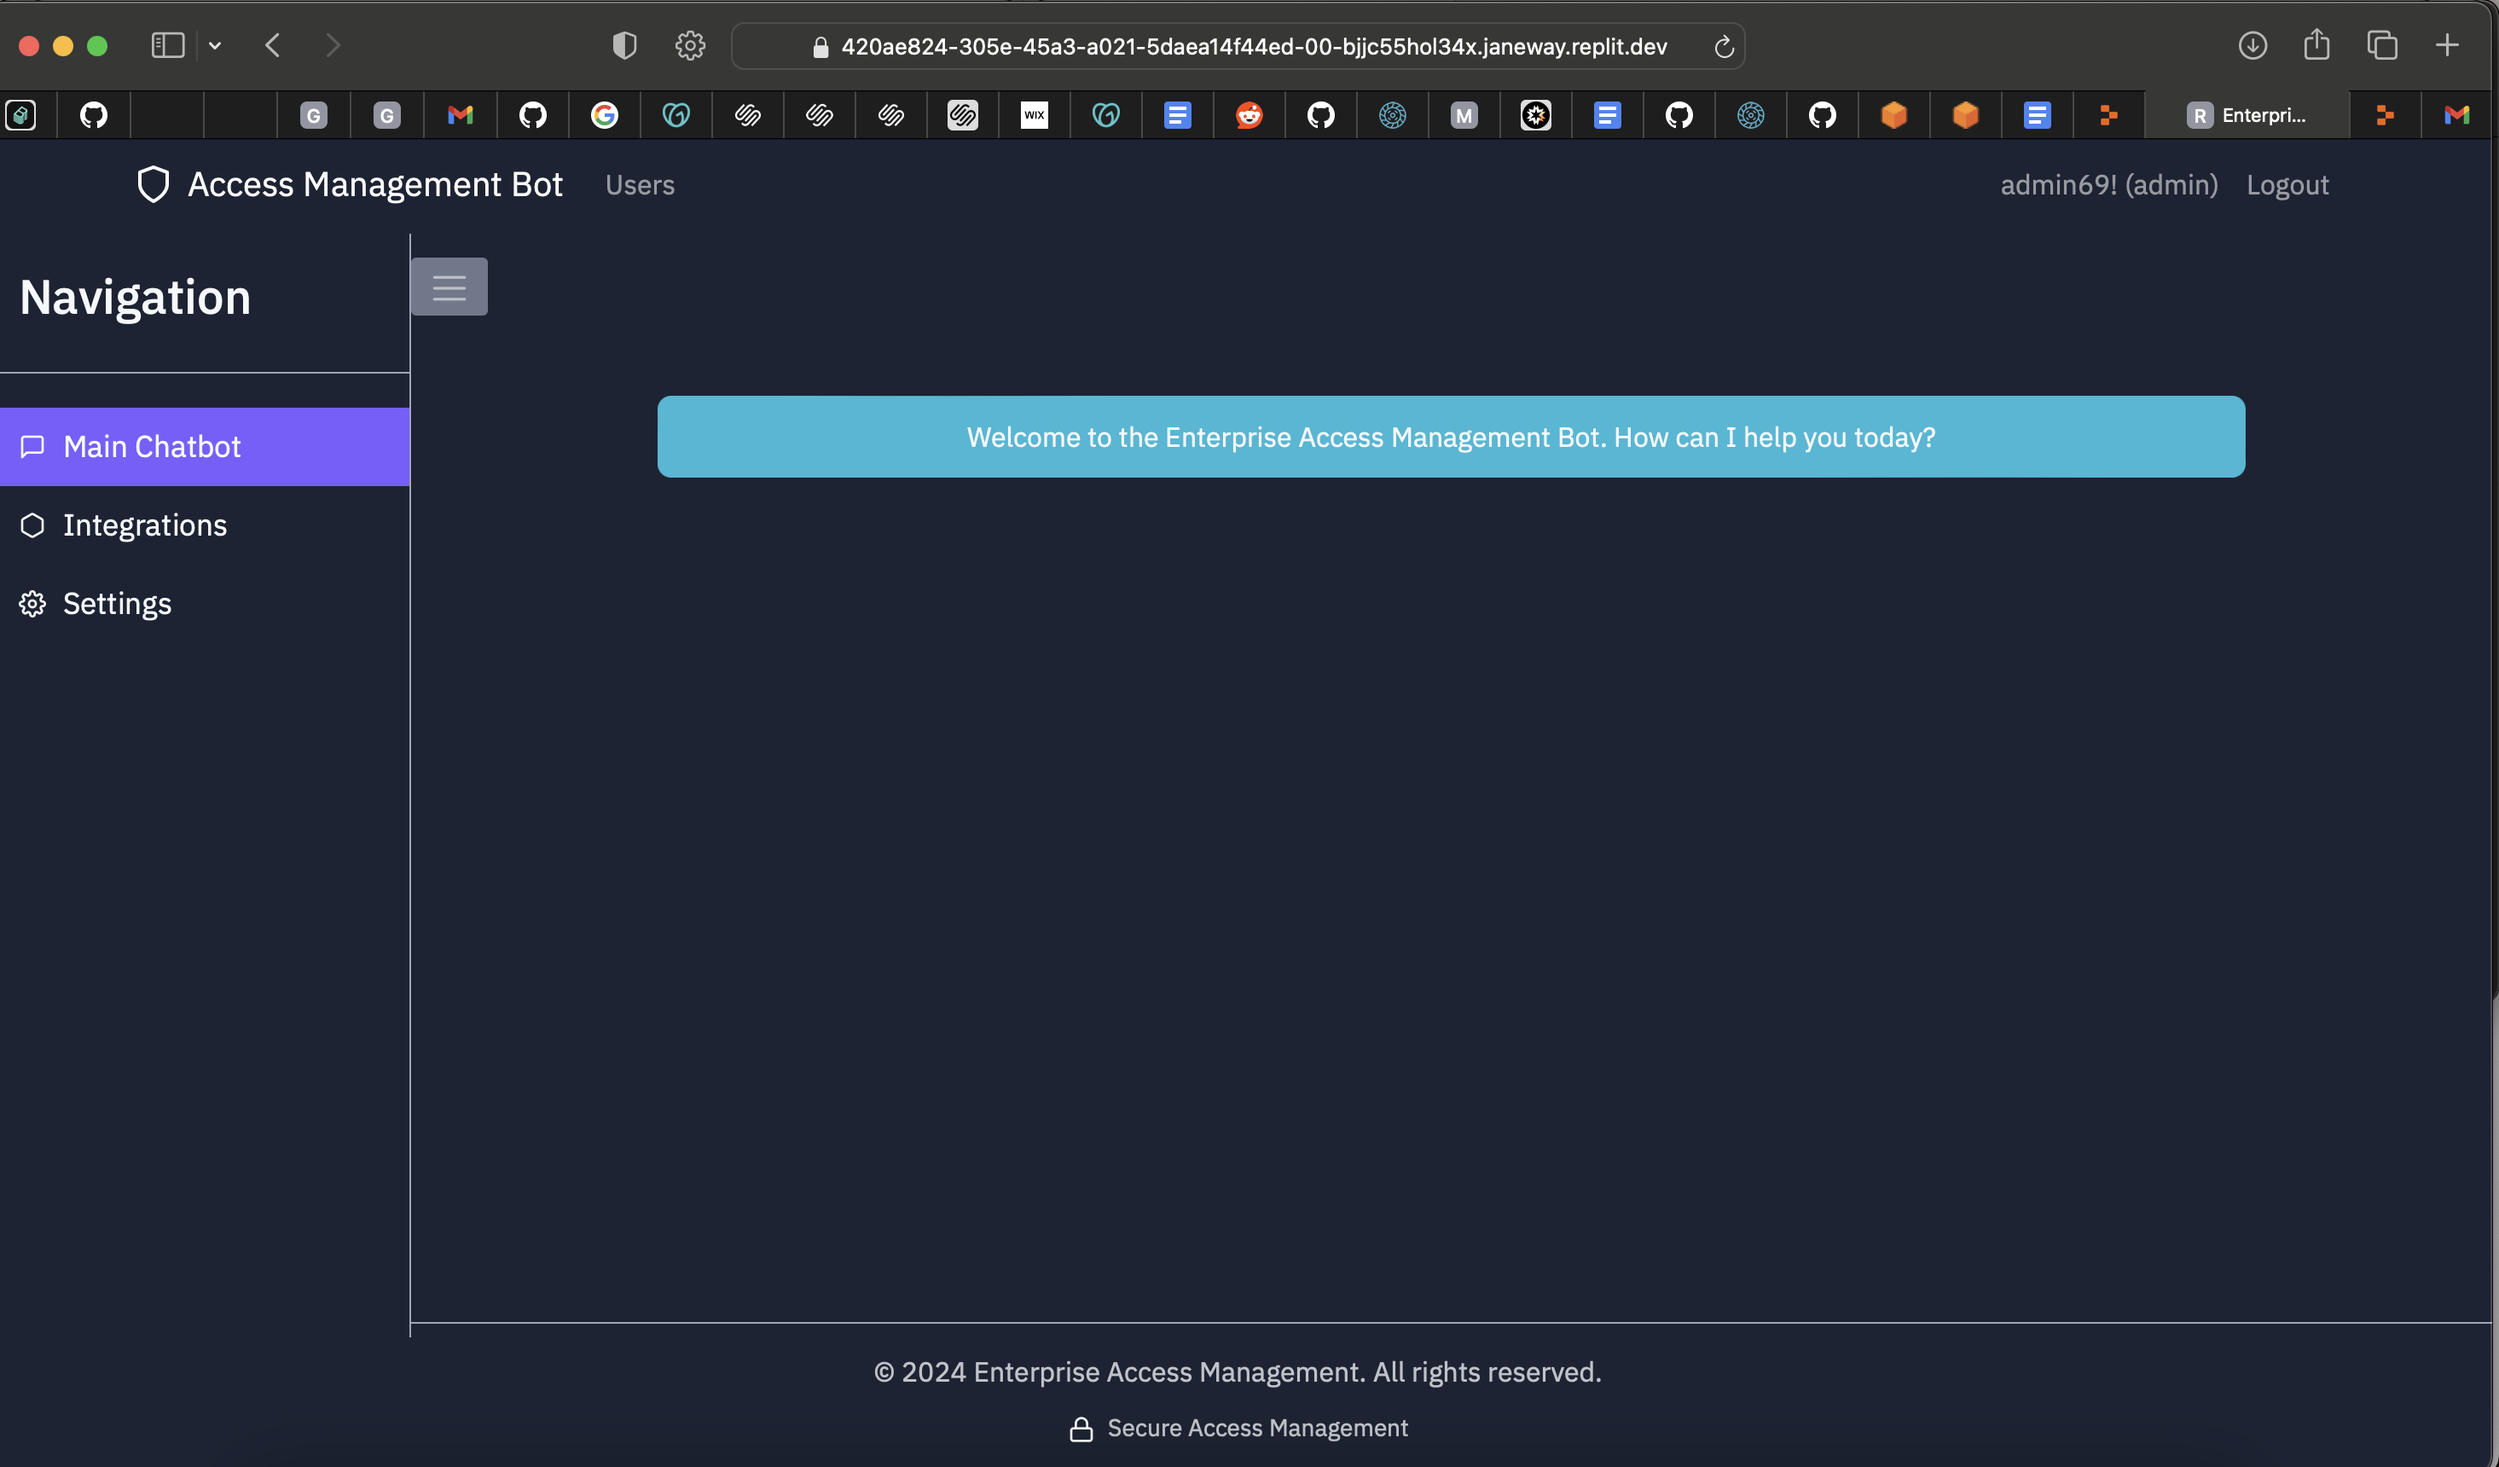
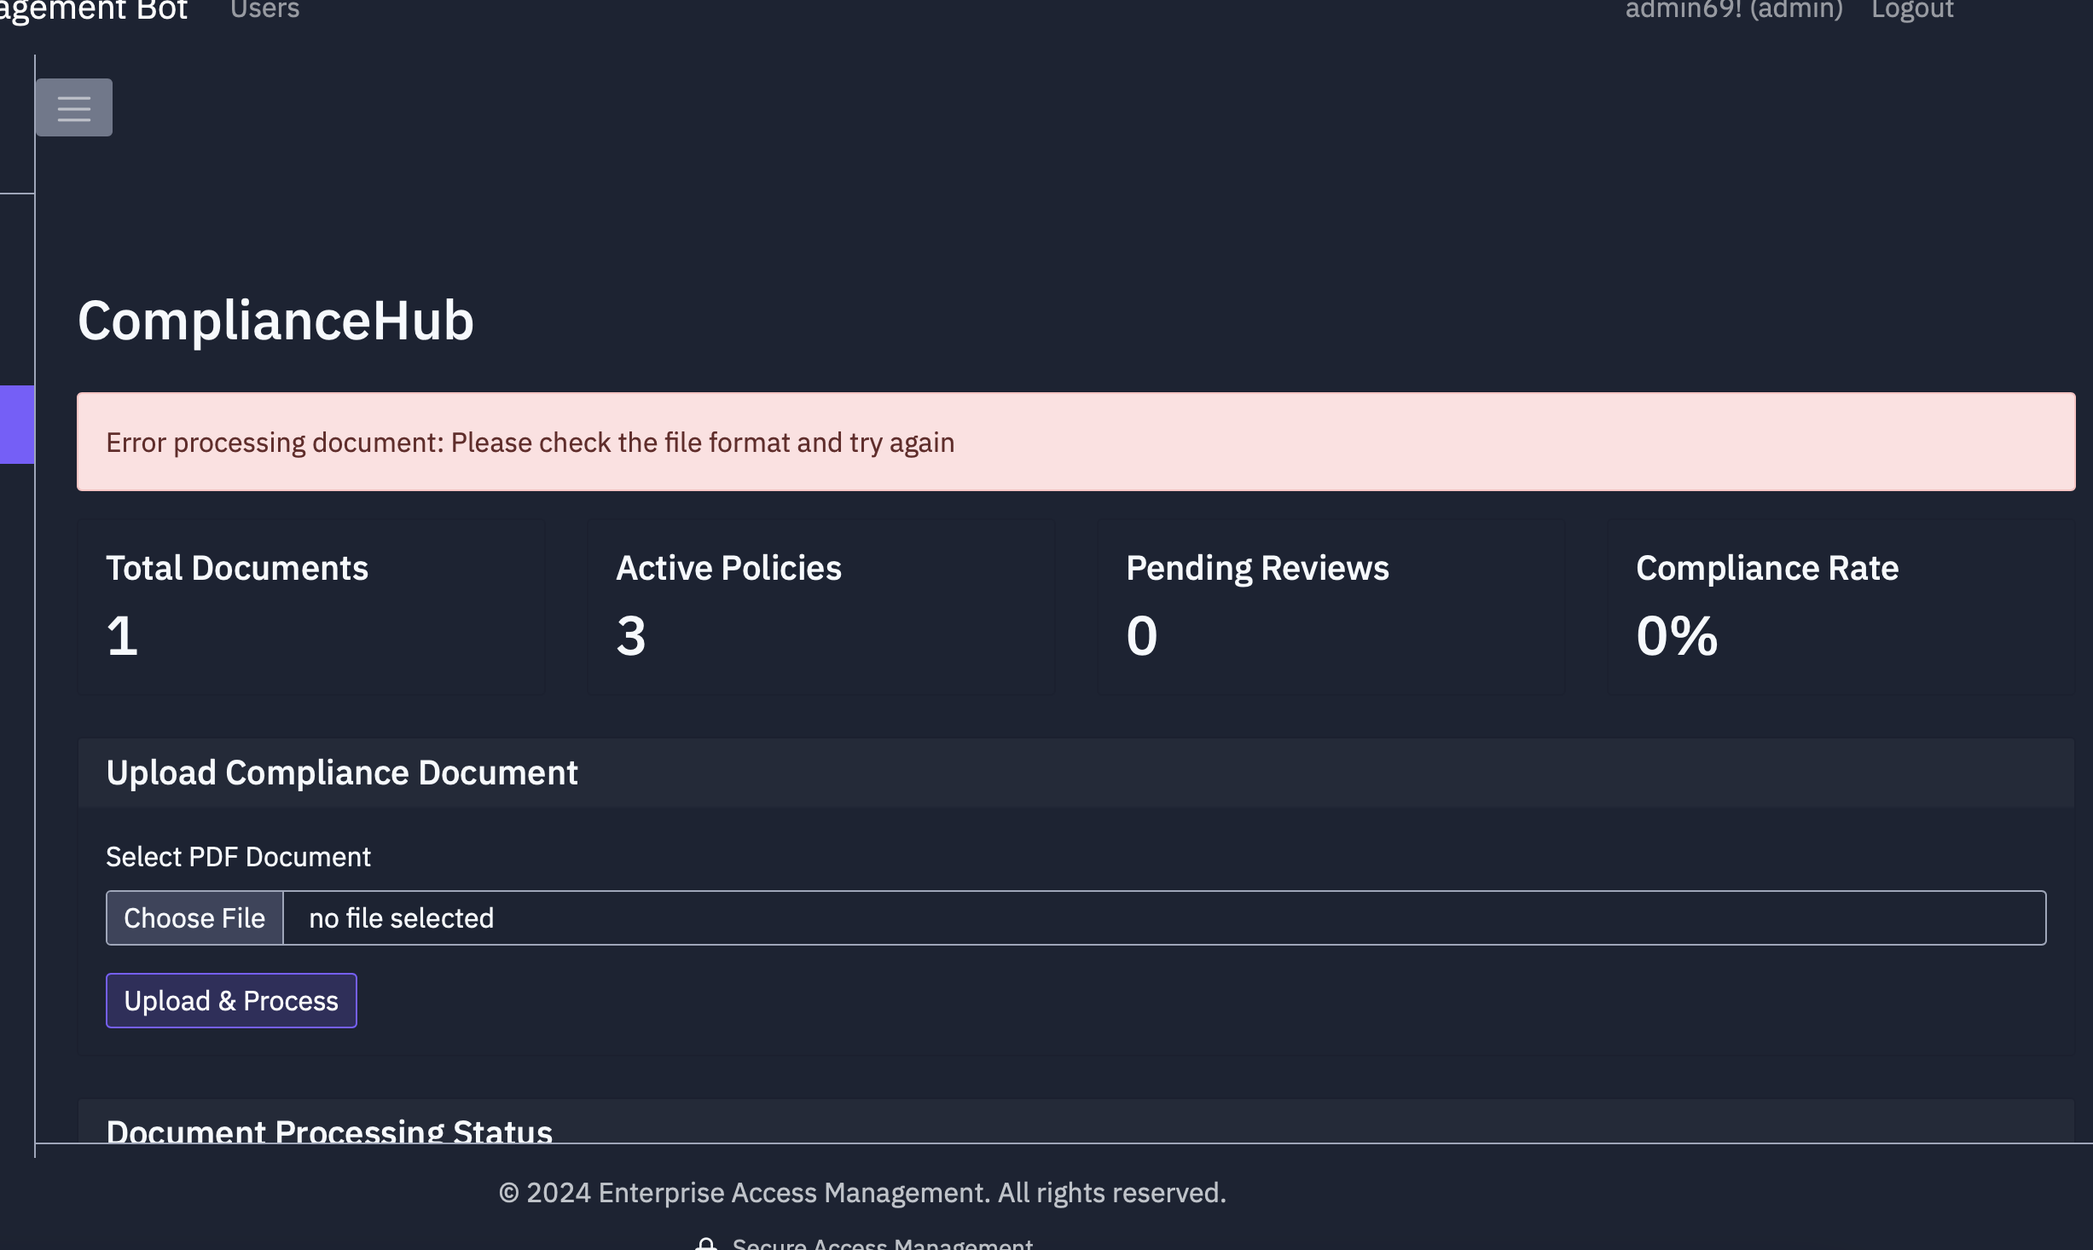
Agent query: Please verify if uploading a PDF document in the ComplianceHub now works correctly without the session error. Try uploading a document and check if it processes successfully.

diff --git a/document_processor.py b/document_processor.py
@@ -242,16 +242,21 @@ def create_policy_from_rules(rules: List[Dict], document_id: int) -> Optional[Di
         logger.error(f"Error creating policy from rules: {str(e)}")
         return None
 
-def process_document(document: ComplianceDocument, file_path: str, max_retries: int = 3) -> None:
+def process_document(document_id: int, file_path: str, max_retries: int = 3) -> None:
     """Process a document and extract compliance rules with enhanced error handling and retries."""
     session = db.session()
     
-    def update_status(new_status: str, commit: bool = True) -> None:
+    def get_document():
+        """Helper function to get document within the current session context."""
+        return session.query(ComplianceDocument).get(document_id)
+    
+    def update_status(document: ComplianceDocument, new_status: str, commit: bool = True) -> None:
         """Helper function to update document status with proper error handling."""
         try:
             document.status = new_status
             if commit:
                 session.commit()
+                session.refresh(document)
             logger.info(f"Document {document.filename} status updated to: {new_status}")
         except Exception as e:
             session.rollback()
@@ -259,34 +264,40 @@ def process_document(document: ComplianceDocument, file_path: str, max_retries: 
             raise
     
     try:
-        update_status('processing')
+        document = get_document()
+        if not document:
+            raise ValueError(f"Document with ID {document_id} not found")
+
+        update_status(document, 'processing')
         logger.info(f"Started processing document: {document.filename}")
         
         # Step 1: Extract text from PDF (25%)
         logger.info("Extracting text from PDF...")
         text = extract_pdf_text(file_path)
         document.content = text
-        update_status('processing_25')
+        update_status(document, 'processing_25')
         
         # Step 2: Process text and extract rules (50%)
         logger.info("Processing text and extracting rules...")
         processed_data = process_document_text(text)
         document.processed_content = text
-        update_status('processing_50')
+        update_status(document, 'processing_50')
         
         # Step 3: Validate extracted rules (75%)
         logger.info("Validating extracted rules...")
         valid_rules = [rule for rule in processed_data['rules'] if validate_rule(rule)]
         logger.info(f"Found {len(valid_rules)} valid rules out of {len(processed_data['rules'])} total rules")
-        update_status('processing_75')
+        update_status(document, 'processing_75')
         
         # Step 4: Create compliance rules and policy (100%)
         logger.info("Creating compliance rules and policy...")
         
         # Use transaction for rules creation
         try:
+            session.refresh(document)  # Ensure document is fresh in session
             create_compliance_rules(document, valid_rules)
             session.flush()  # Ensure rules are created before policy
+            session.refresh(document)  # Refresh after rules creation
         except Exception as e:
             session.rollback()
             logger.error(f"Error creating compliance rules: {str(e)}")
@@ -340,18 +351,22 @@ def process_document(document: ComplianceDocument, file_path: str, max_retries: 
         
         if not policy_created:
             logger.error(f"Failed to create policy after {max_retries} attempts. Last error: {str(last_error)}")
-            update_status('partial_success', commit=False)
+            update_status(document, 'partial_success', commit=False)
         else:
-            update_status('processed', commit=False)
+            update_status(document, 'processed', commit=False)
         
         # Final commit for the entire transaction
         session.commit()
+        session.refresh(document)  # Final refresh after all operations
         logger.info(f"Successfully processed document: {document.filename}")
         
     except Exception as e:
         session.rollback()
-        update_status('error')
-        logger.error(f"Error processing document {document.filename}: {str(e)}")
+        # Get fresh document instance for error status update
+        error_doc = get_document()
+        if error_doc:
+            update_status(error_doc, 'error')
+        logger.error(f"Error processing document {document_id}: {str(e)}")
         raise
         
     finally:

diff --git a/app.py b/app.py
@@ -289,8 +289,8 @@ def upload_compliance_document():
         logger.info(f"Created document record for {filename}")
         
         try:
-            # Process the document
-            process_document(document, file_path)
+            # Process the document using document_id
+            process_document(document.id, file_path)
             
             # Check final status
             db.session.refresh(document)
